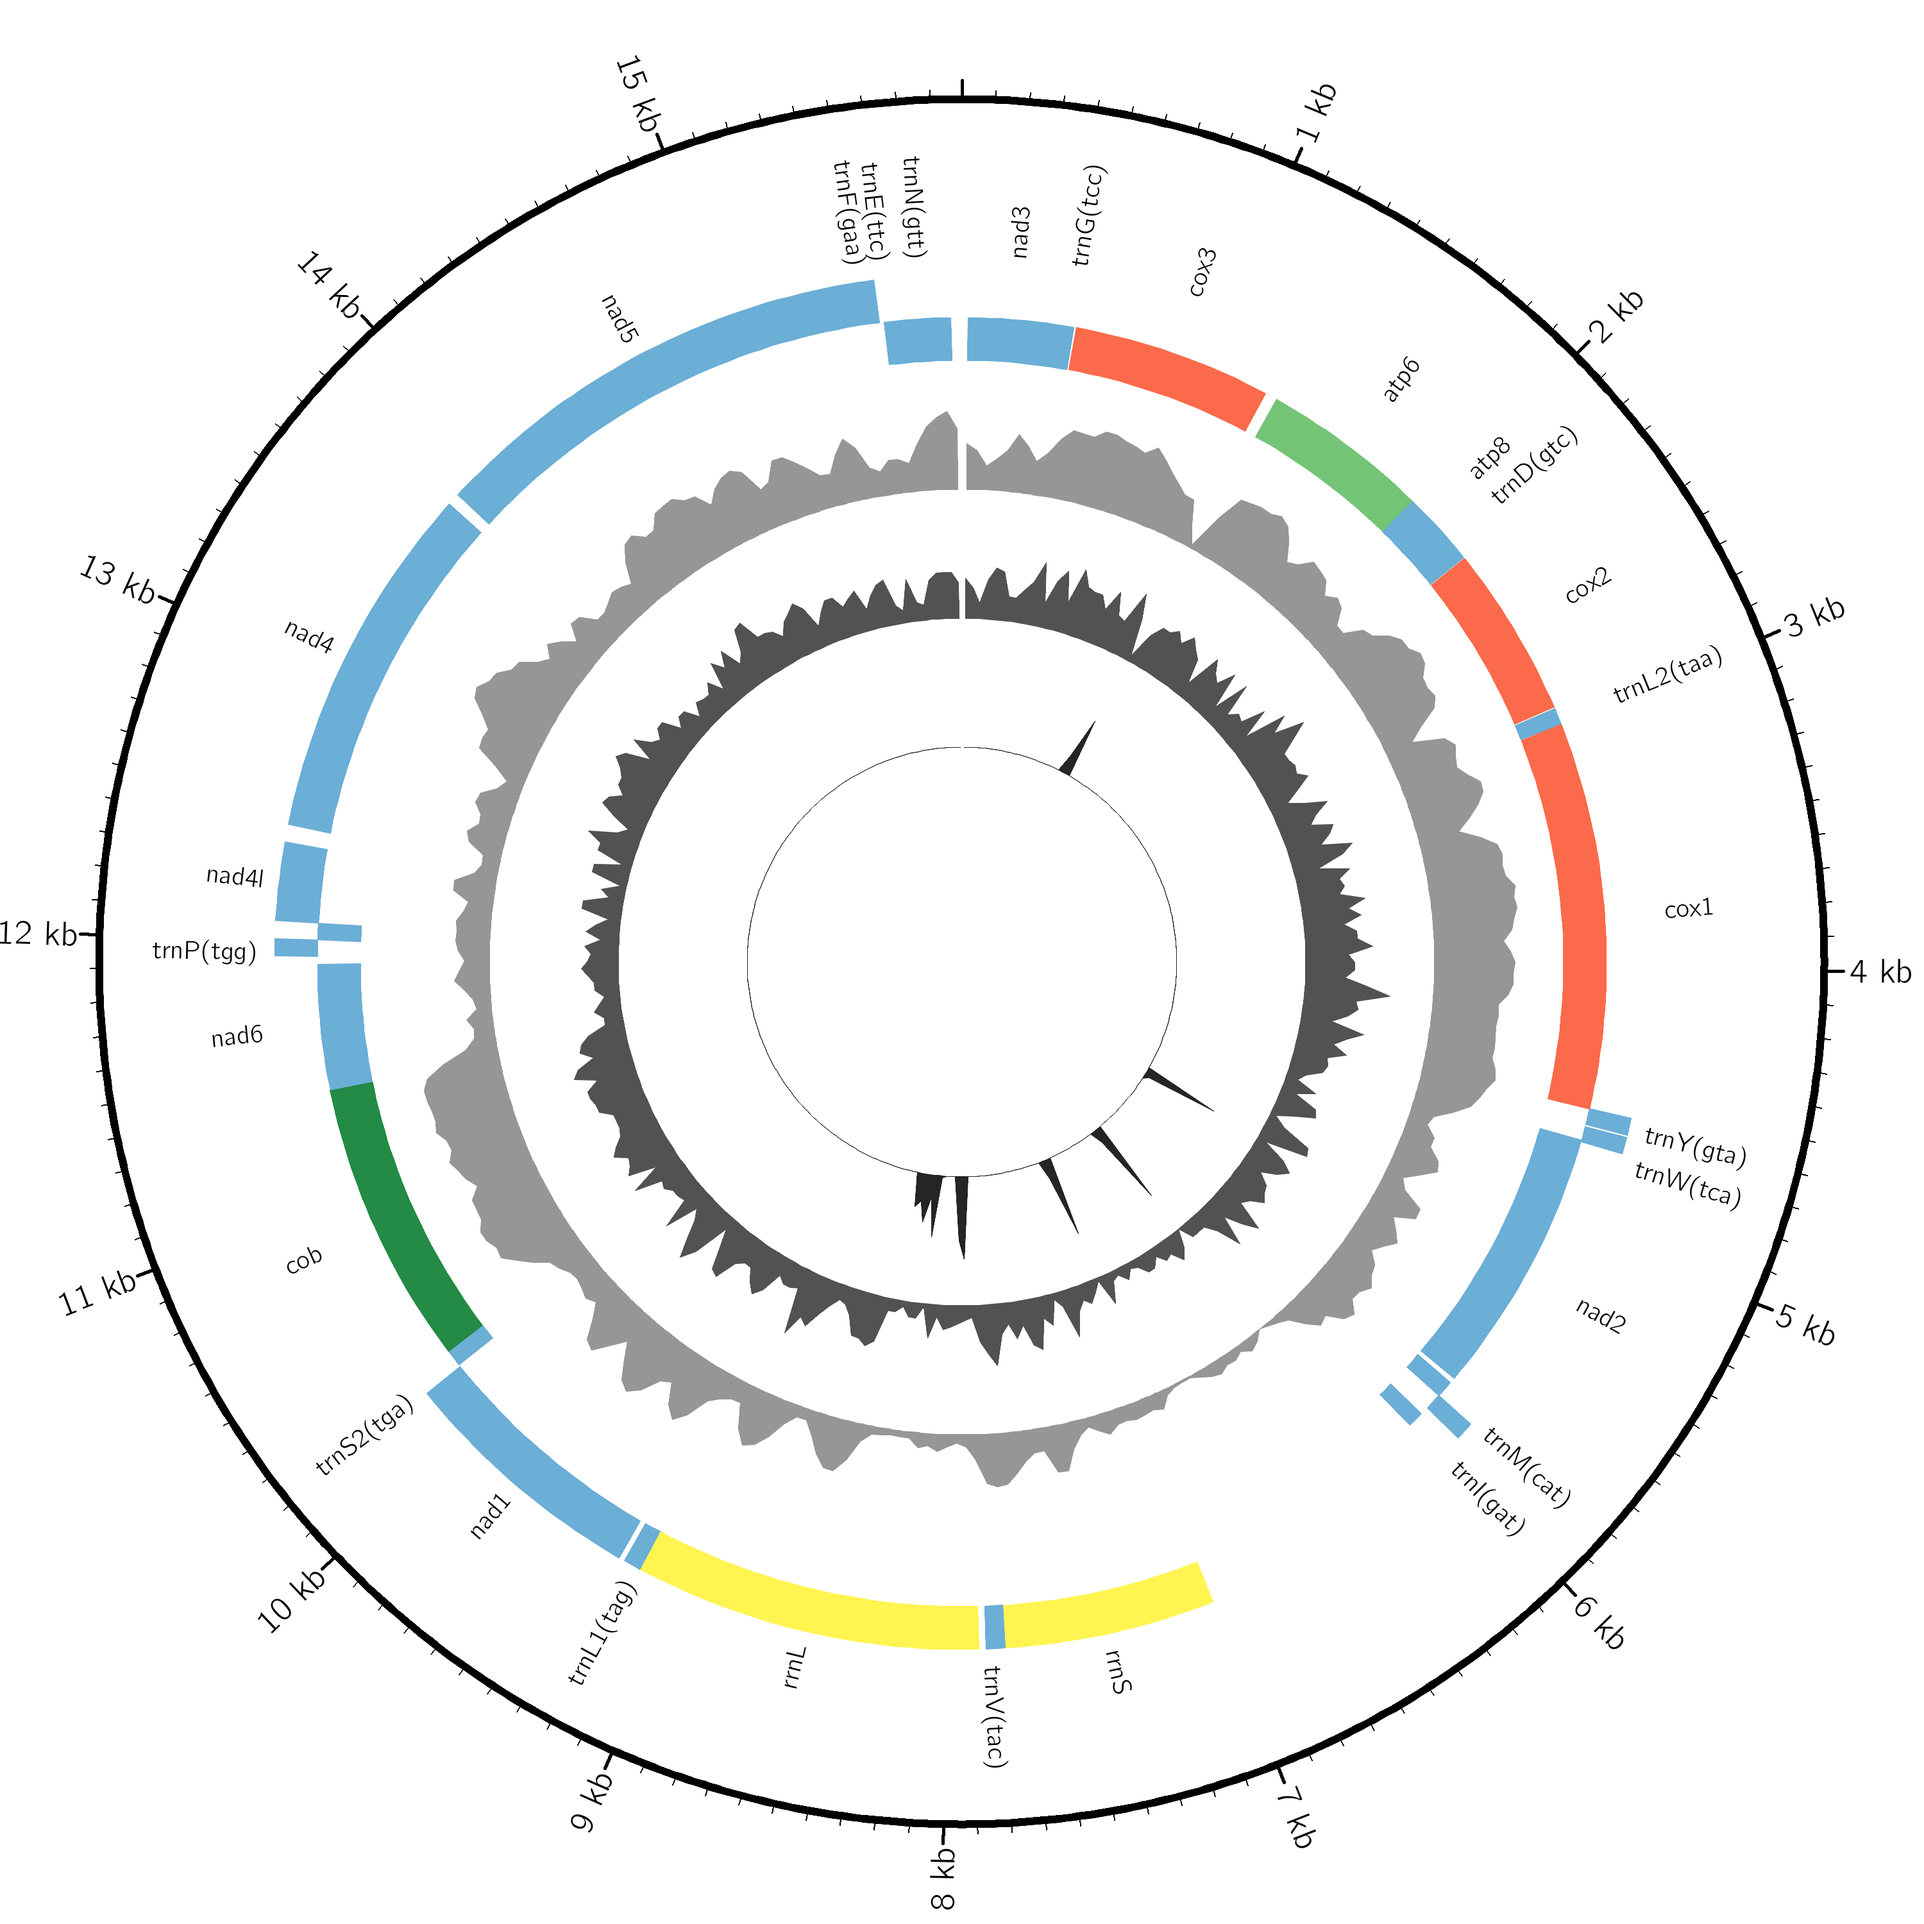
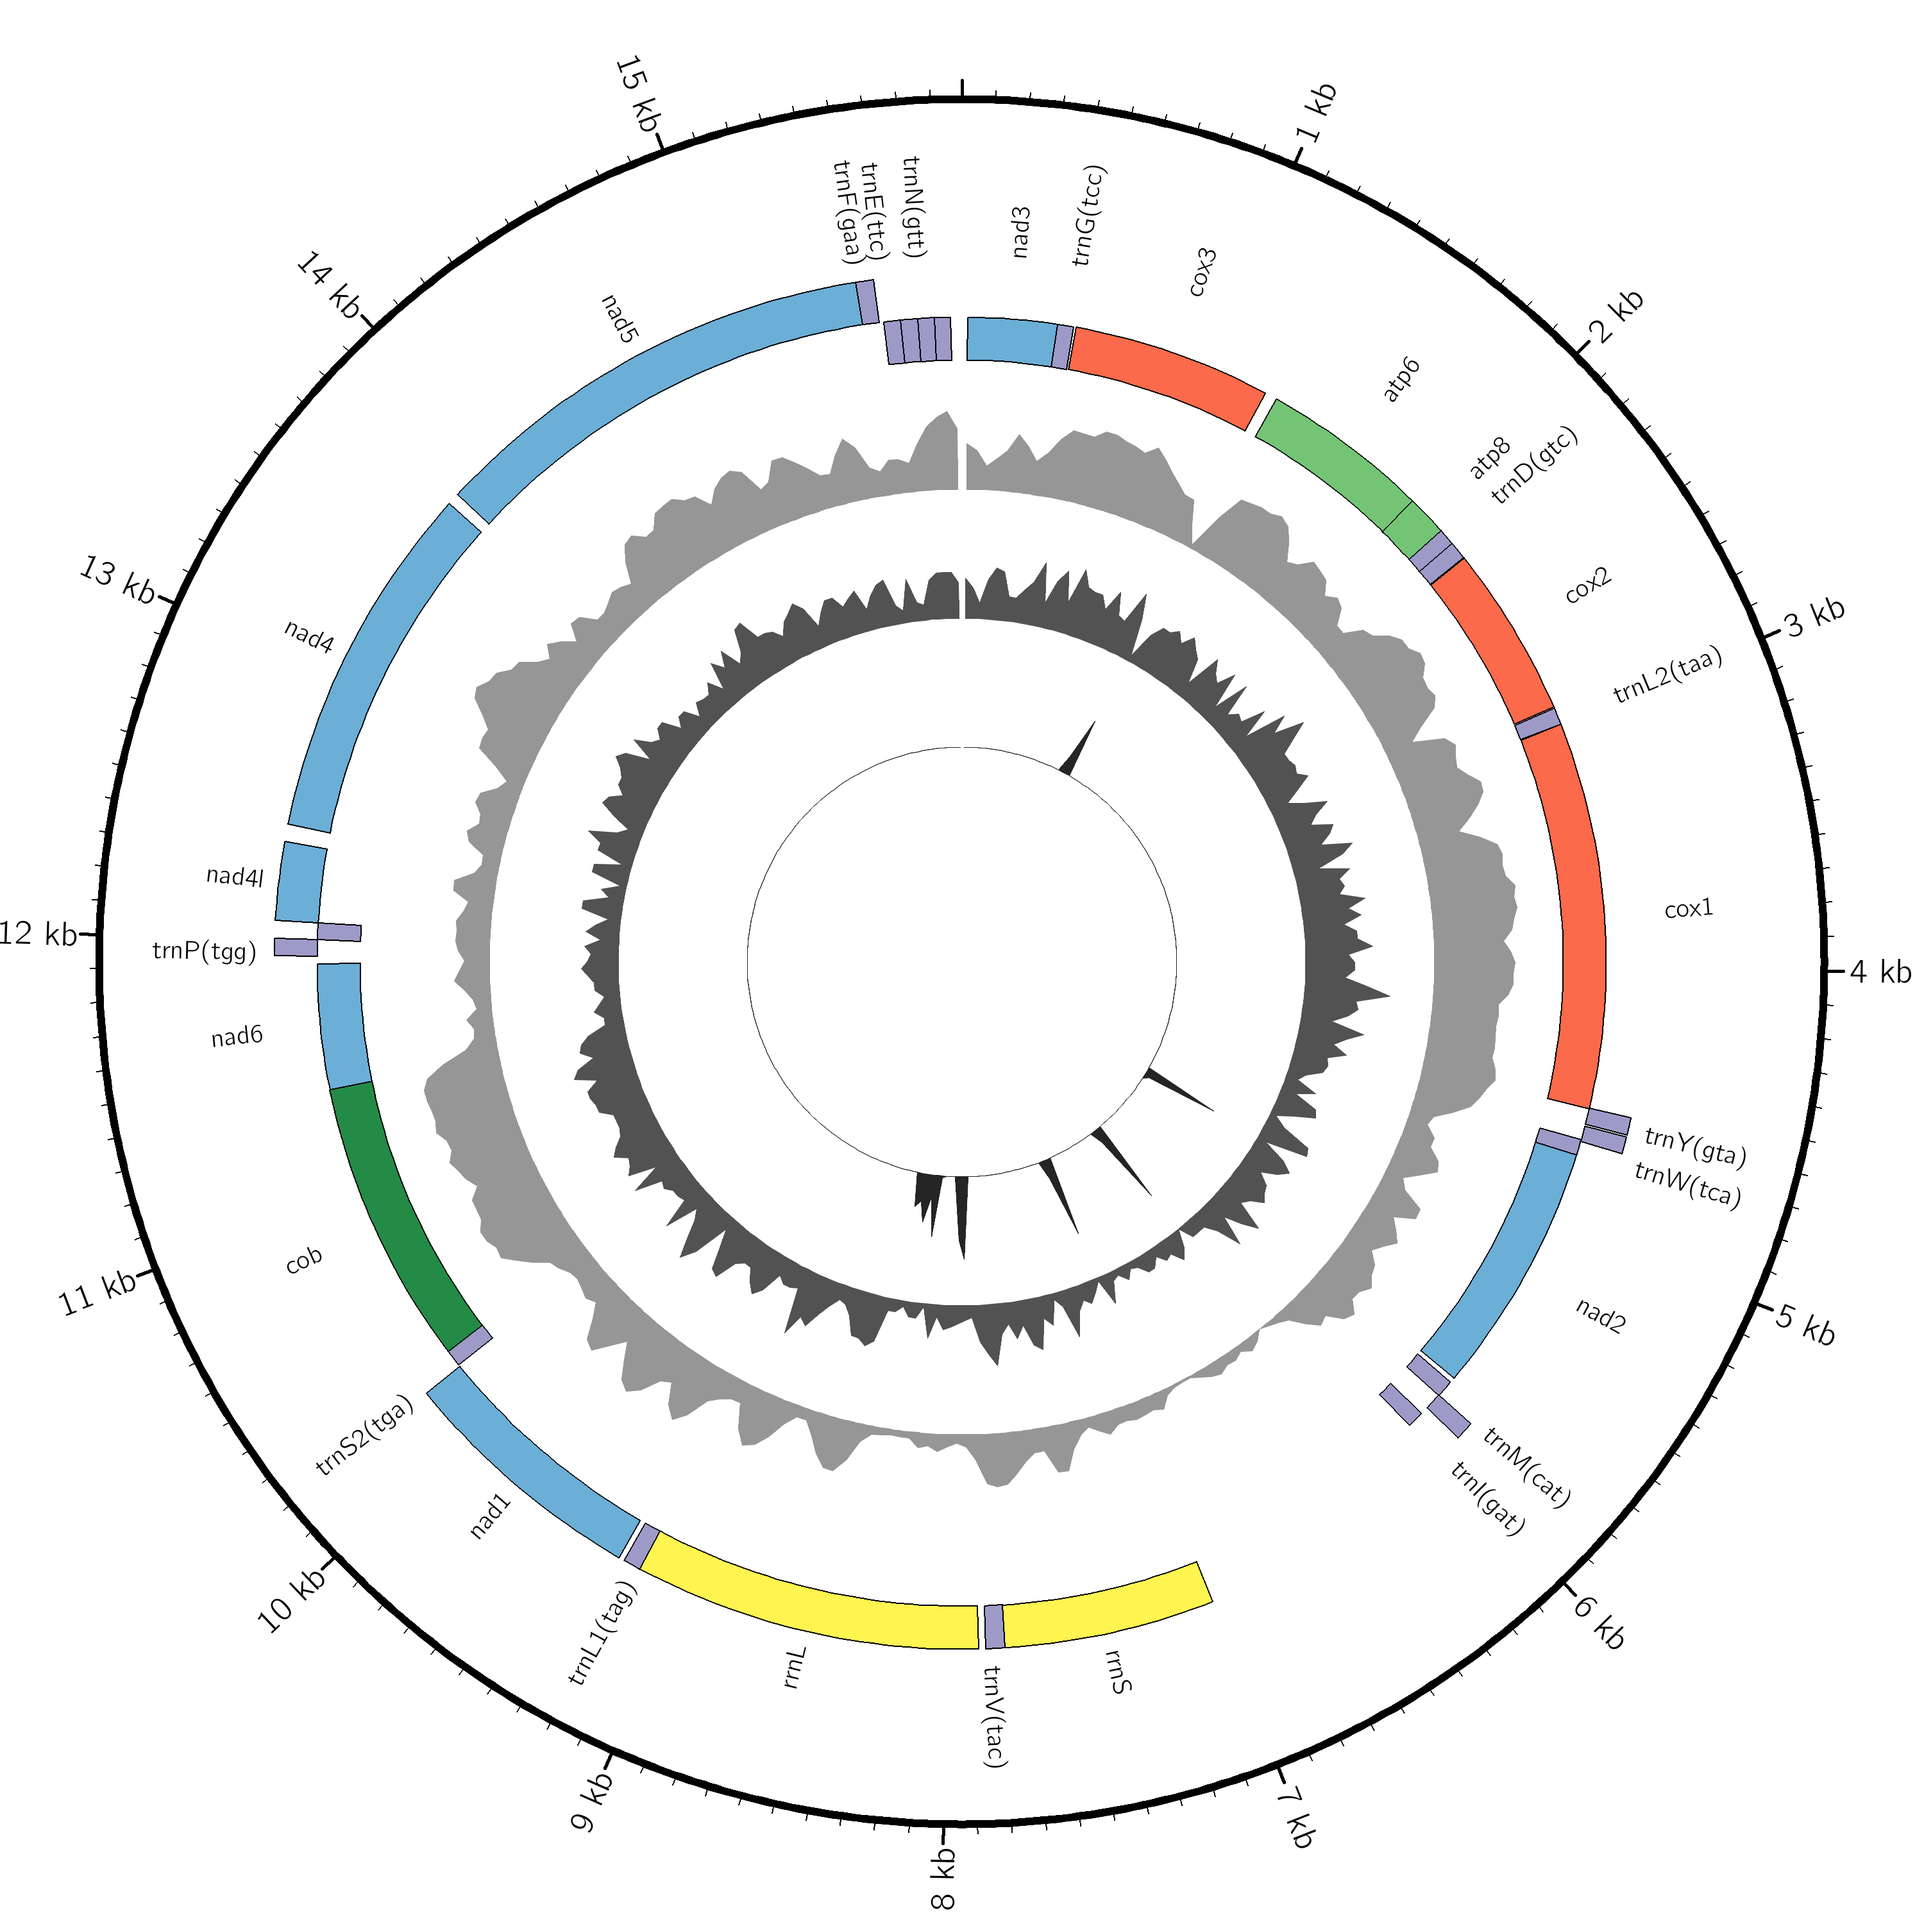
Added outlines to highlights

diff --git a/circos_plot_organelle.py b/circos_plot_organelle.py
@@ -210,6 +210,8 @@ karyotype = karyotype.txt
 file  = data/annotations_genes.txt
 r1    = 0.90r
 r0    = 0.85r
+stroke_color = black
+stroke_thickness = 2
 </highlight>
 </highlights>
 
@@ -285,12 +287,14 @@ for line in ann:
     col="blue"
     if gene.startswith("cox"):
         col="red"
-    if gene.startswith("atp6"):
+    if gene.startswith("atp"):
         col="green"
     if gene.startswith("rrn"):
         col="yellow"
     if gene.startswith("cob"):
         col="vdgreen"
+    if gene.startswith("trn"):
+        col="purple"
     if orien == "+":
         r1 = "0.80r"
         r0 = "0.75r"
